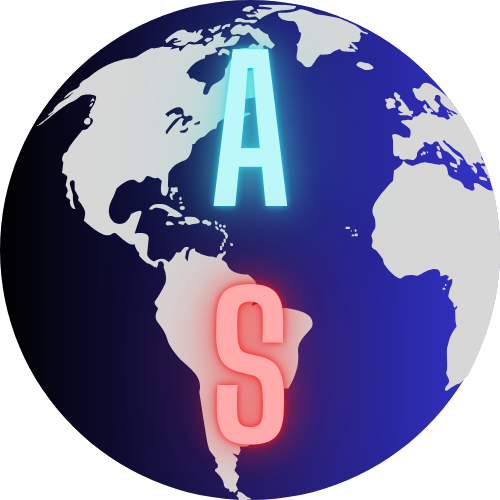
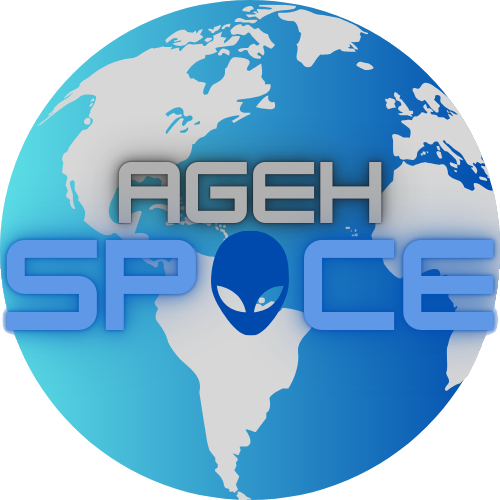
Atualização de algumas imagens
Foi trocadas imagens do ícone e da tela inicial.

diff --git a/README.md b/README.md
@@ -1,2 +1,2 @@
 # AGEH_SPACE
-Um site educacional sobre o espaço
+Um site educacional sobre o espaço, explorando o que o nosso sistema solar tem para nos oferecer.
